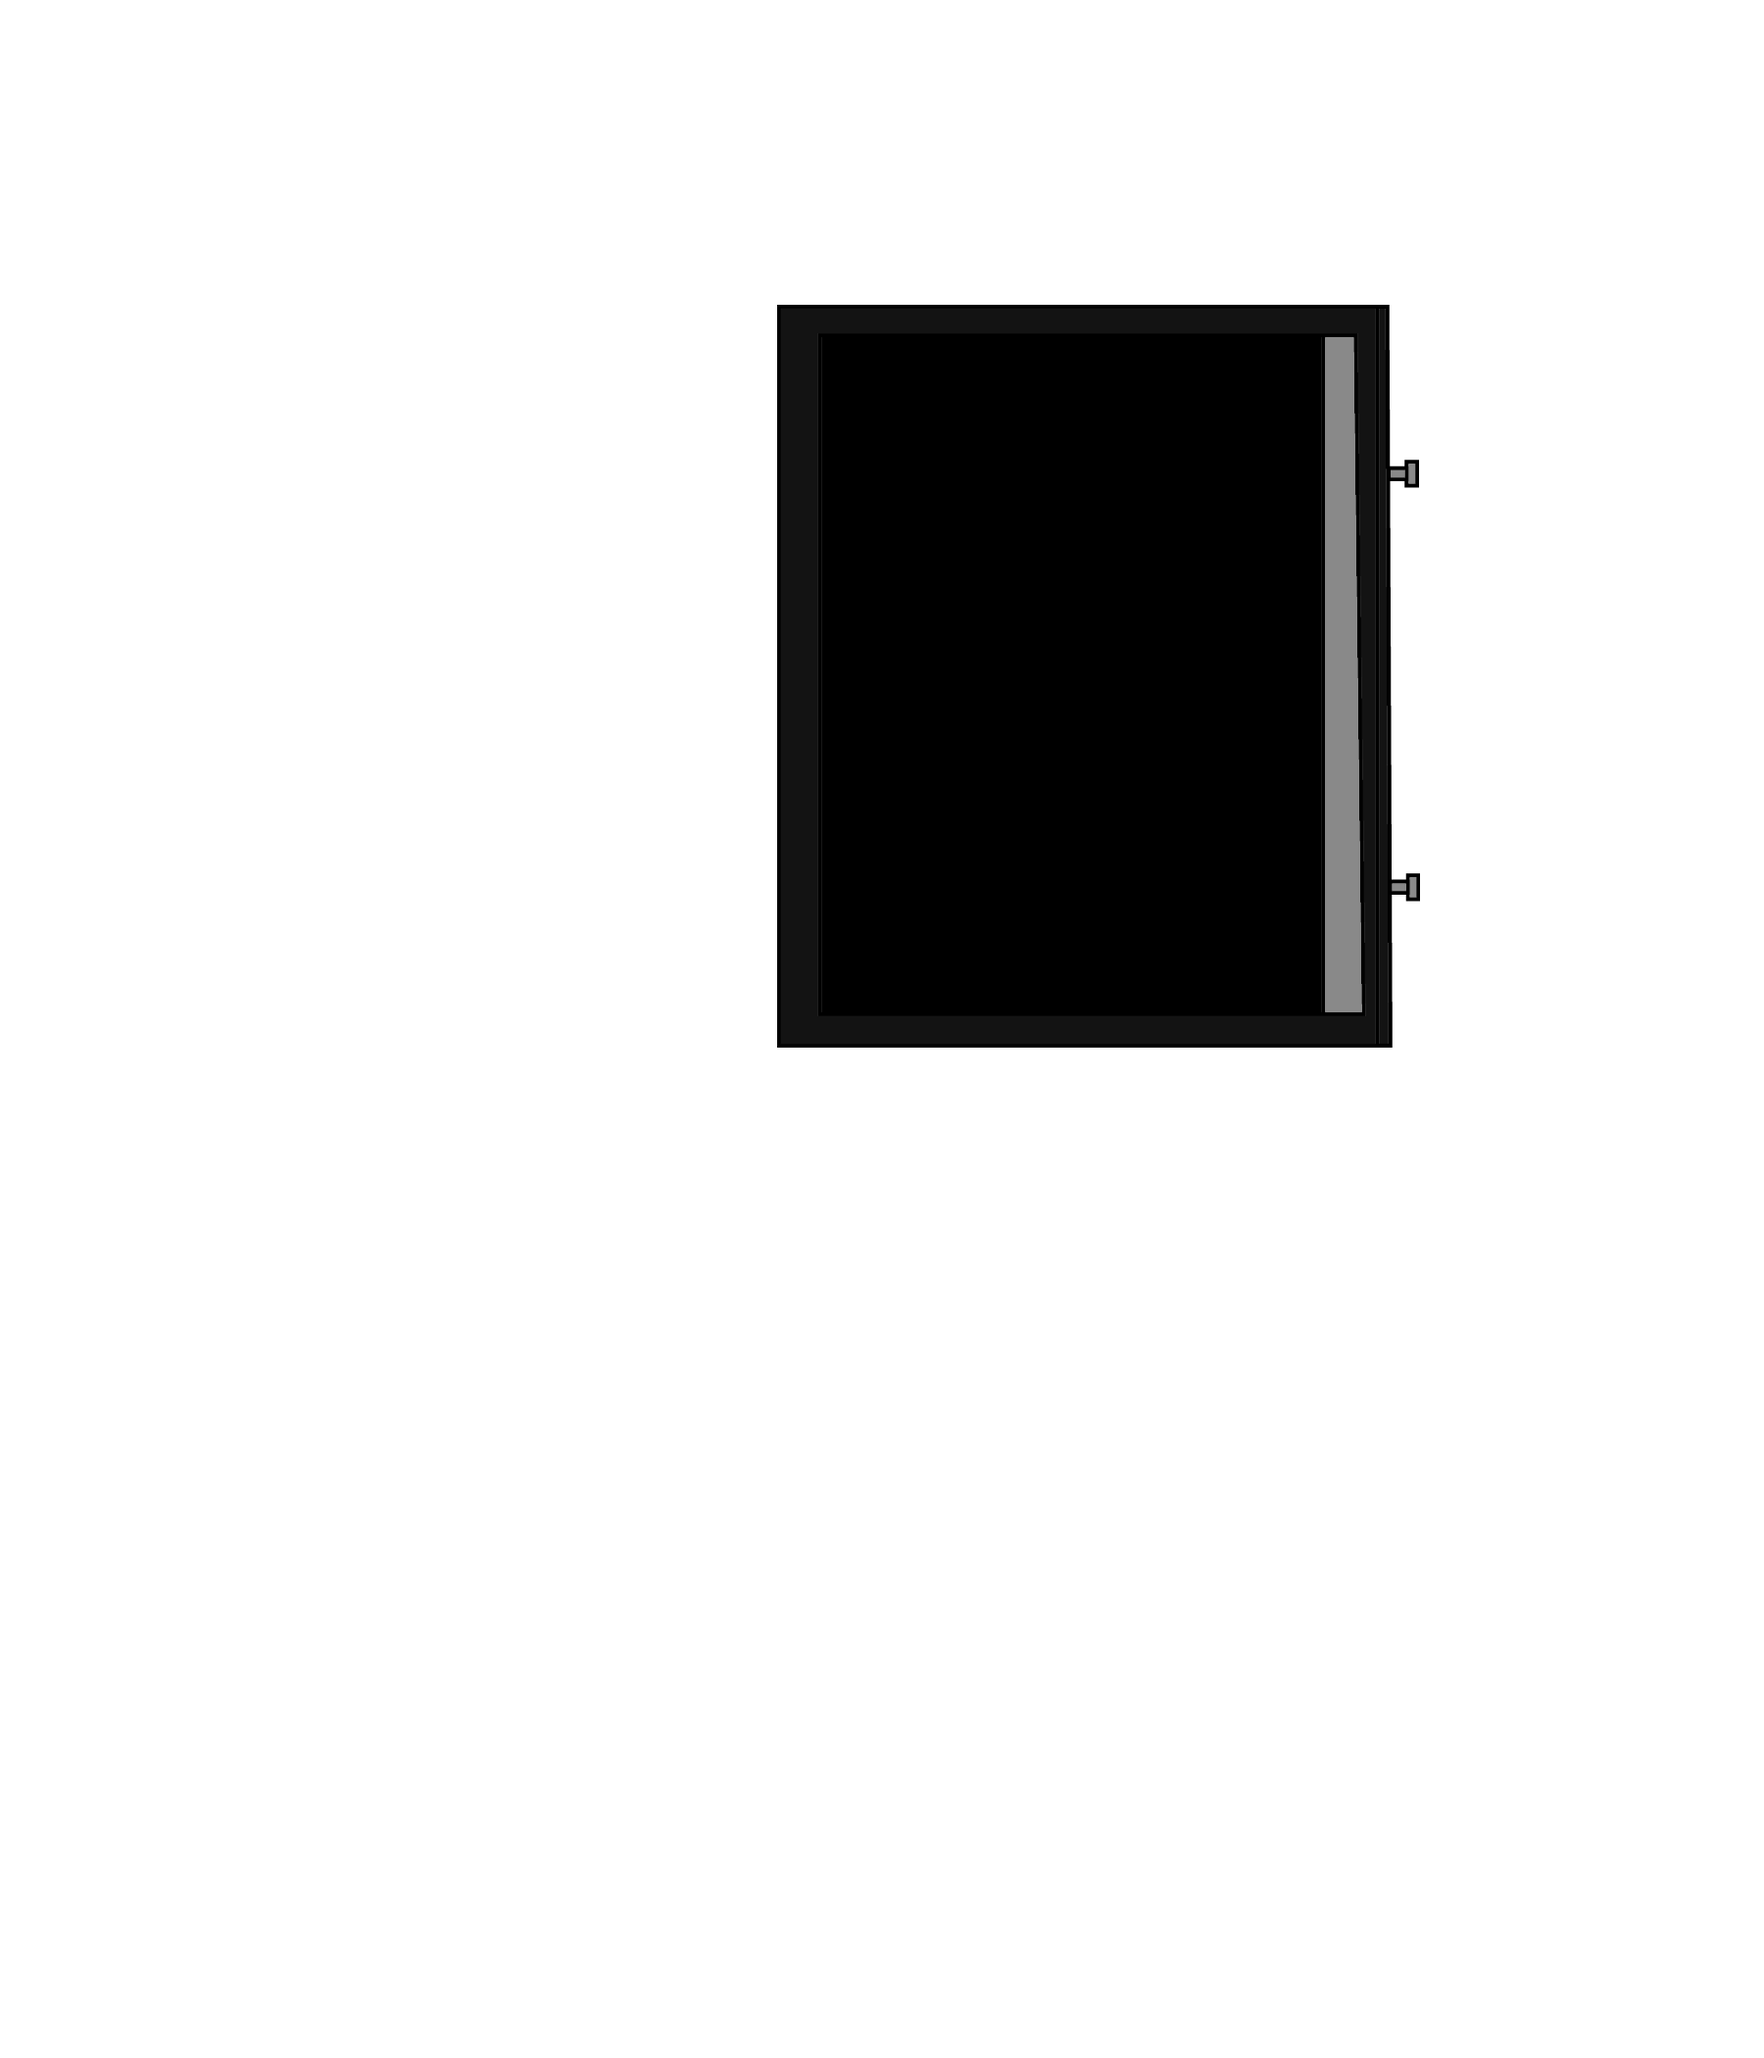
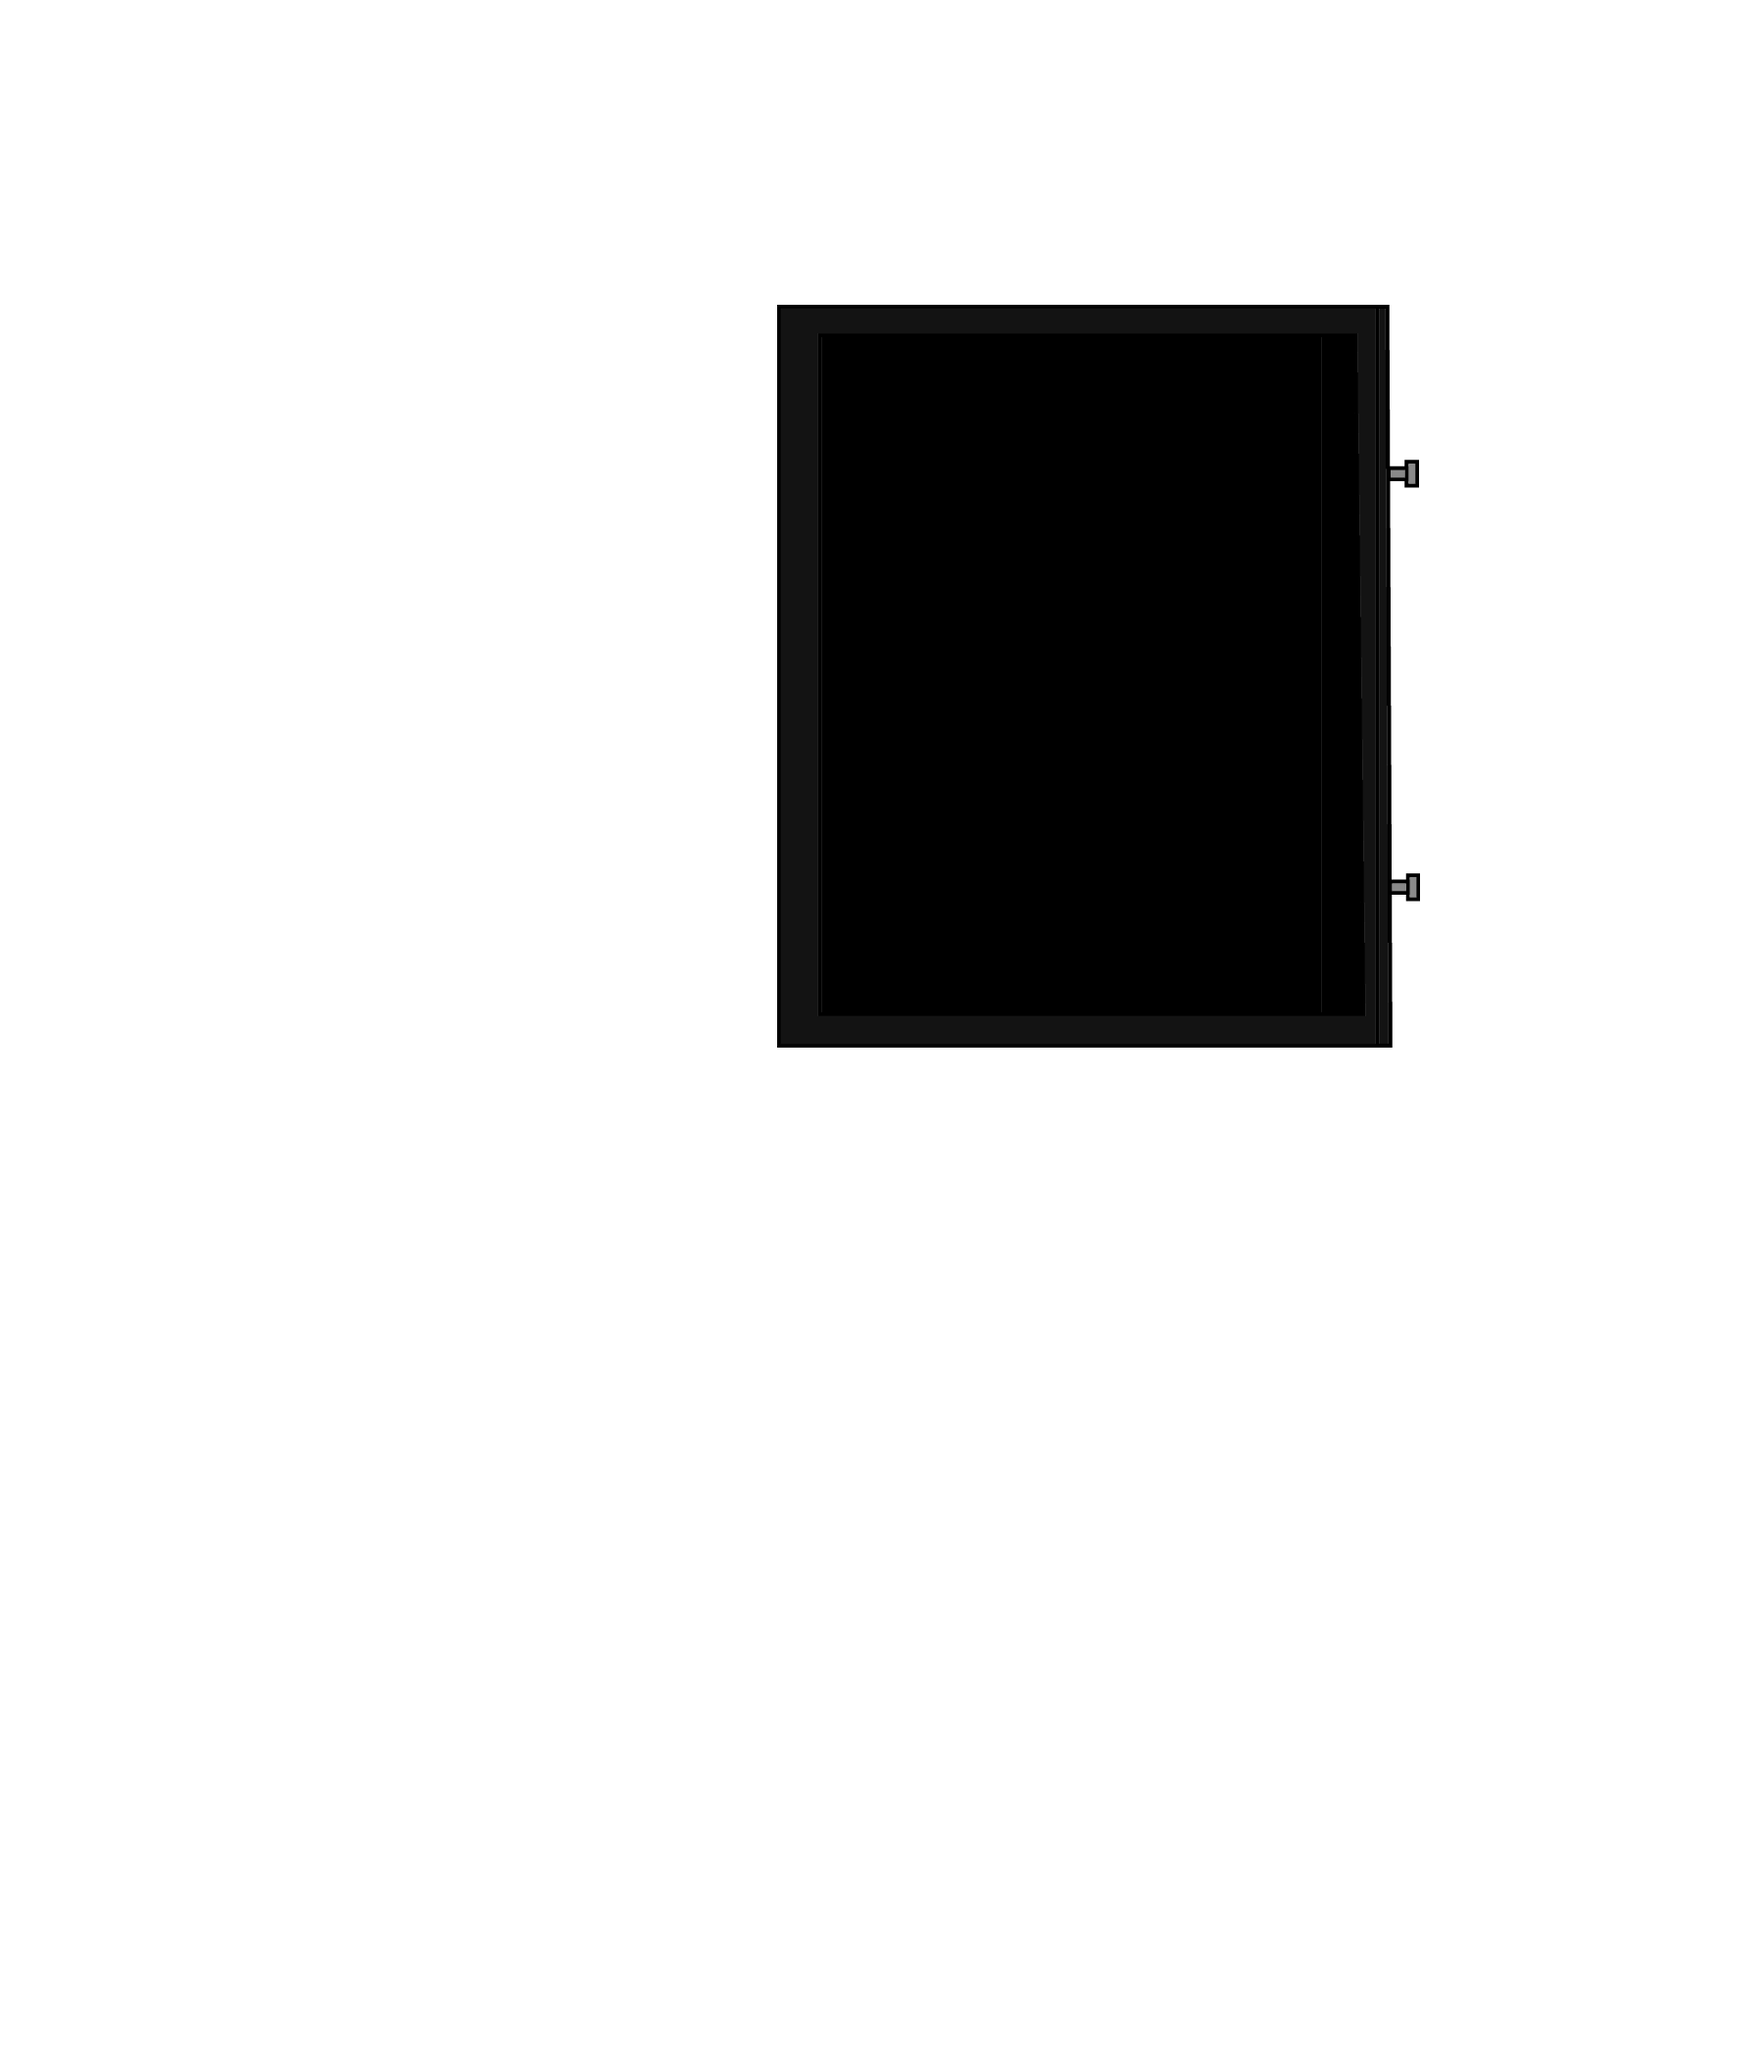
Animation works. Stop button works. Need to make stop button reset animation to first keyframe

Changed region(s): [[0.7467, 0.1548, 0.7778, 0.4952]]

diff --git a/templates/homepage.html b/templates/homepage.html
@@ -14,8 +14,10 @@
 
 <div class="parent">
   <img id="base" src="/static/images/base.png" height="750">
-  <img id="mid" src="/static/images/mid.png" height="750">
-  <img id="queue"src="/static/images/black.png"  height="250px">
+  <div id="animated-elements">
+    <img class="target" id="mid" src="/static/images/mid.png" height="750">
+    <img class="target" id="queue" src="/static/images/black.png"  height="250px">
+  </div>
   <img id="top" src="/static/images/top.png" height="750">
   <img id="playButton" src="/static/images/playbutton.png" height="750">
 </div>
@@ -25,6 +27,8 @@
   <input type="hidden" id="img_id_in" name="img_id">
   <input type="submit" value="Play">
 </form>
+
+<button id="stop">Stop</button>
 
 <!-- *********************************************************************** -->
 <!-- Play button in ANS interface sends img_id to route that gets pixel data and passes to JavaScript -->
@@ -90,14 +94,21 @@
   <div id="modal-content" class="modal-content">
     <span class="close" id="closeCanvas">&times;</span>
       <div id="myCanvas">
+
+        <!-- Canvas Element -->
         <canvas id="canvas" width="400" height="600" style="border:1px solid #000000; background-color: black;"></canvas>
 
+        <!-- Canvas tools -->
         <p class="toolList">
-            <button id="clearCanvas" type="button">Clear</button>
-            <button id="pen" type="button">Pen</button>
-            <button id="eraser" type="button">Eraser</button>
-            <button id="saveCanvas" type="button">Save</button>
+          <button id="clearCanvas" type="button">Clear</button>
+          <button id="pen" type="button">Pen</button>
+          <button id="eraser" type="button">Eraser</button>
         </p>
+
+        <!-- Save and set privacy -->
+          <input type="radio" name="privacy" value="private">Private
+          <input type="radio" name="privacy" value="public" checked>Public
+          <button id="saveCanvas" type="button">Save</button>
     </div>
   </div>
 </div>

diff --git a/static/js/virtual_ans.js b/static/js/virtual_ans.js
@@ -58,25 +58,35 @@ function getJSON(evt) {
 // Function that unpacks a column data every second
 function playSynths(result) {
     environment.start();
-    // virtual_ans.play();
 
     let columnArray = result['column'];
-    // I want to get next pixelColumn and set muls once every second (for now)
     let columnNum = 0;
+
+    // Get image duration for CSS Animation
+    let timePerPixel = 250;
+    let pixelWidth = columnArray.length;
+    let imgDuration = (pixelWidth * timePerPixel) / 1000;
+
+    document.getElementById("animated-elements")
+            .style["animation-duration"] = imgDuration + 's';
+    $('#animated-elements').css('animation-play-state', 'running');
 
     let interval = setInterval(function () {
         let pixelColumn = columnArray[columnNum];
         playPixelColumn(pixelColumn);
-
-
         columnNum += 1;
-        console.log(columnArray.length);
 
+    $("#stop").on('click', function(){
+        $('#animated-elements').css('animation-play-state', 'paused');
+        clearInterval(interval);
+        environment.stop();
+    });
+        // At end, clear interval and stop environment
         if (columnNum >= columnArray.length) {
             clearInterval(interval);
             environment.stop();
         }
-    }, 250)
+    }, timePerPixel)
 }
 
 
@@ -97,3 +107,5 @@ function playPixelColumn(pixelColumn) {
         i+=1;
     }
 }
+
+

diff --git a/static/js/upload_form.js b/static/js/upload_form.js
@@ -22,11 +22,11 @@ spanUpload.onclick = function() {
 }
 
 // When the user clicks anywhere outside of the modal, close it
-window.onclick = function(event) {
-    if (event.target == uploadFormModal) {
-        uploadFormModal.style.display = "none";
-    }
-}
+// window.onclick = function(event) {
+//     if (event.target == uploadFormModal) {
+//         uploadFormModal.style.display = "none";
+//     }
+// }
 
 let imgFile;
 $("#image-file").on('change', function(evt) {
@@ -36,9 +36,12 @@ $("#image-file").on('change', function(evt) {
 $("#uploadImage").on('click', function(evt) {
     evt.preventDefault();
 
+    //Close Modal
+    uploadFormModal.style.display = "none";
+
+    //Package formData
     let formData = new FormData();
     formData.append('img_file', imgFile[0]);
-    //This should be fine...
     let privacy = $("input[name='privacy']:checked").val();
     formData.append('privacy', privacy);
 

diff --git a/static/js/select_image.js b/static/js/select_image.js
@@ -16,10 +16,11 @@ if (userImages) {
   }
 }
   $('.playables').on('click', function() {
+      selectImageModal.style.display = "none";
       //get image id, load image in interface, pass image id to hidden input
       let queueImg = document.querySelector("#queue");
-      let getSrc = $(this).attr("src")
-      queueImg.setAttribute('src', getSrc);
+      let imgSrc = $(this).attr("src")
+      queueImg.setAttribute('src', imgSrc);
       let imgId = $(this).attr("id");
       $("#img_id_in").val(imgId);
   });
@@ -46,10 +47,3 @@ selectImageBtn.onclick = function() {
 spanSelect.onclick = function() {
     selectImageModal.style.display = "none";
 }
-
-// When the user clicks anywhere outside of the modal, close it
-// window.onclick = function(event) {
-//     if (event.target == selectImageModal) {
-//         selectImageModal.style.display = "none";
-//     }
-// }

diff --git a/static/css/styles.css b/static/css/styles.css
@@ -16,12 +16,37 @@
     position: absolute;
     top: 0;
     left: 0;
+    will-changge: contents;
+    will-change: left;
 }
 
 #queue {
     position: absolute;
     top: 121px;
     left: 305px;
+    will-changge: contents;
+    will-change: left;
+}
+
+
+#animated-elements {
+    position: absolute;
+    top: 0;
+    left: 0;
+    animation-name: playAnimation;
+    animation-duration: 1s;
+    animation-play-state: paused;
+    animation-fill-mode: forwards;
+}
+
+@keyframes playAnimation {
+    0% {left: 0;}
+    100% {left: -205px;}
+}
+
+@keyframe resetAnimation {
+    0% {left: -205px;}
+    100%{left: 0;}
 }
 
 #top {
@@ -39,7 +64,7 @@
 #play {
     position: relative;
     top: 678px;
-    left: 655px;
+    left: 632px;
 }
 
 /*MODAL*/

diff --git a/static/js/drawing_canvas.js b/static/js/drawing_canvas.js
@@ -115,6 +115,8 @@ document.getElementById('saveCanvas').addEventListener('click', function(){
     let file = new Blob([new Uint8Array(array)], {type: 'image/jpg'});
     let formData = new FormData();
     formData.append("myFileName", file);
+    let privacy = $("input[name='privacy']:checked").val();
+    formData.append('privacy', privacy);
 
     $.ajax({
         type: 'POST',

diff --git a/server.py b/server.py
@@ -22,9 +22,7 @@ app.jinja_env.undefined = StrictUndefined
 #*****************************************************#
 # Routes
 """TO DO:
-- In modal
-    - Image library (public)
-    - User images (private and public)
+
 """
 
 @app.route('/')
@@ -88,7 +86,7 @@ def process_image():
 def process_canvas():
     """Convert and Analyze image from Canvas, add to DB"""
     img = request.files['myFileName']
-    privacy = False
+    privacy = request.form.get("privacy")
 
     if 'user_id' in session:
         user_id = session['user_id']
